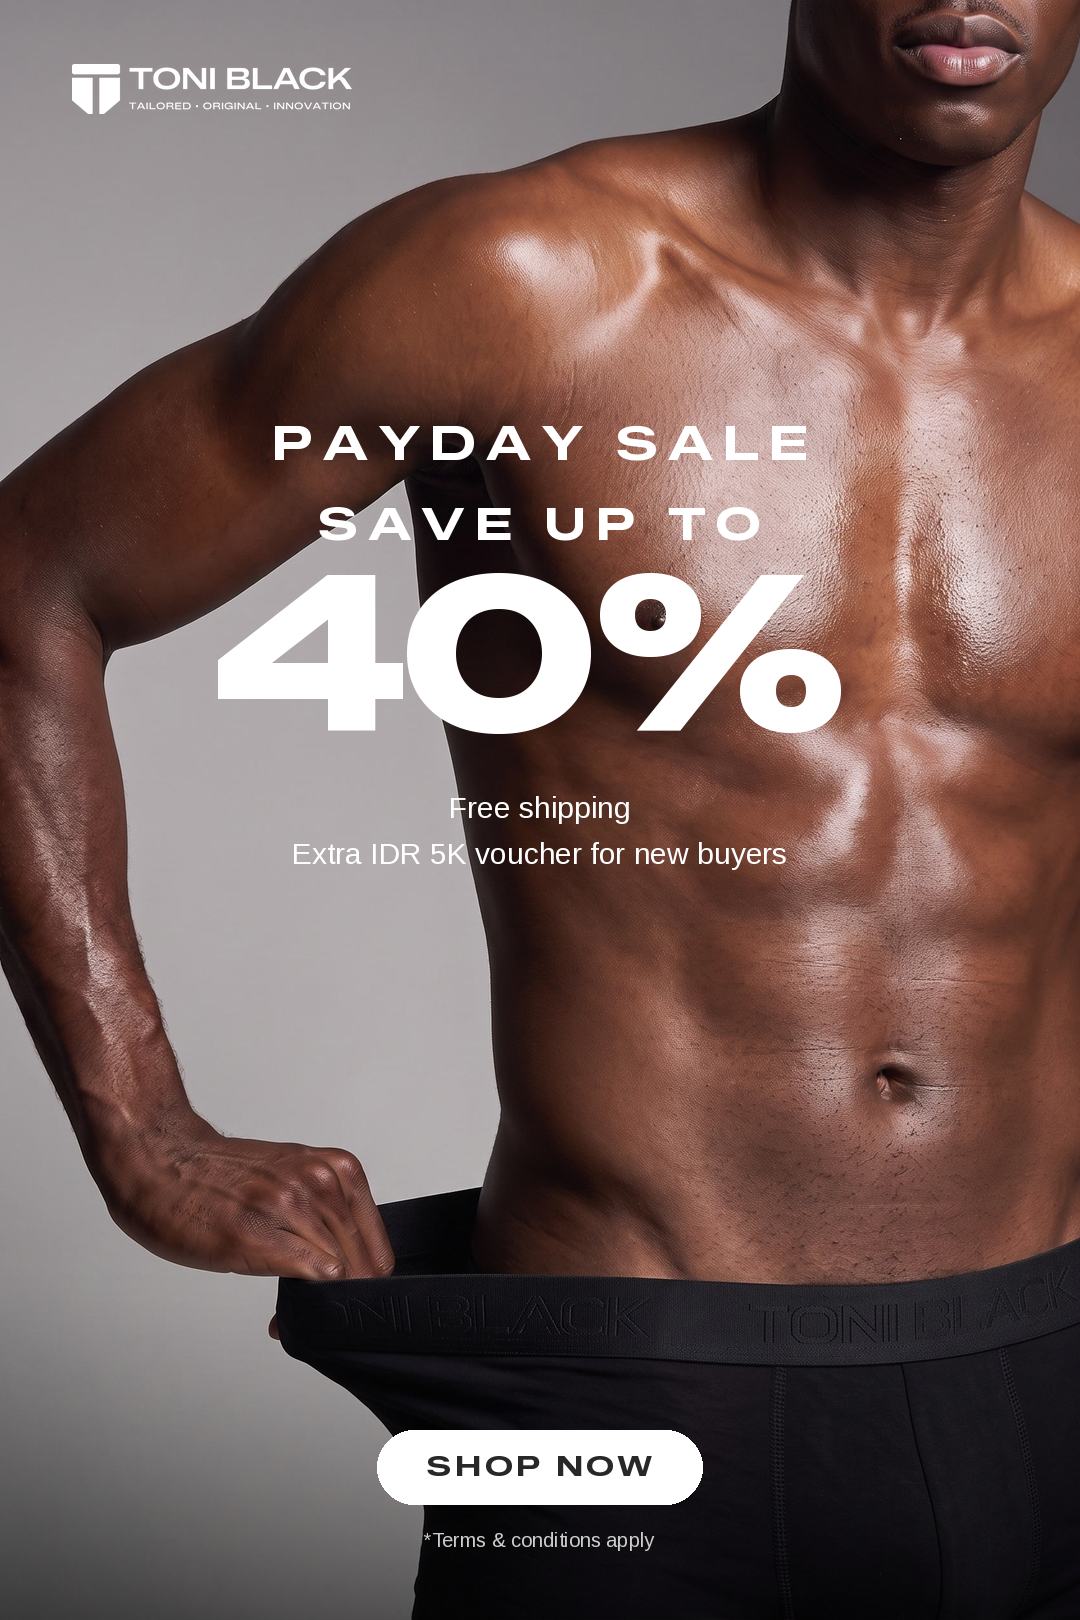
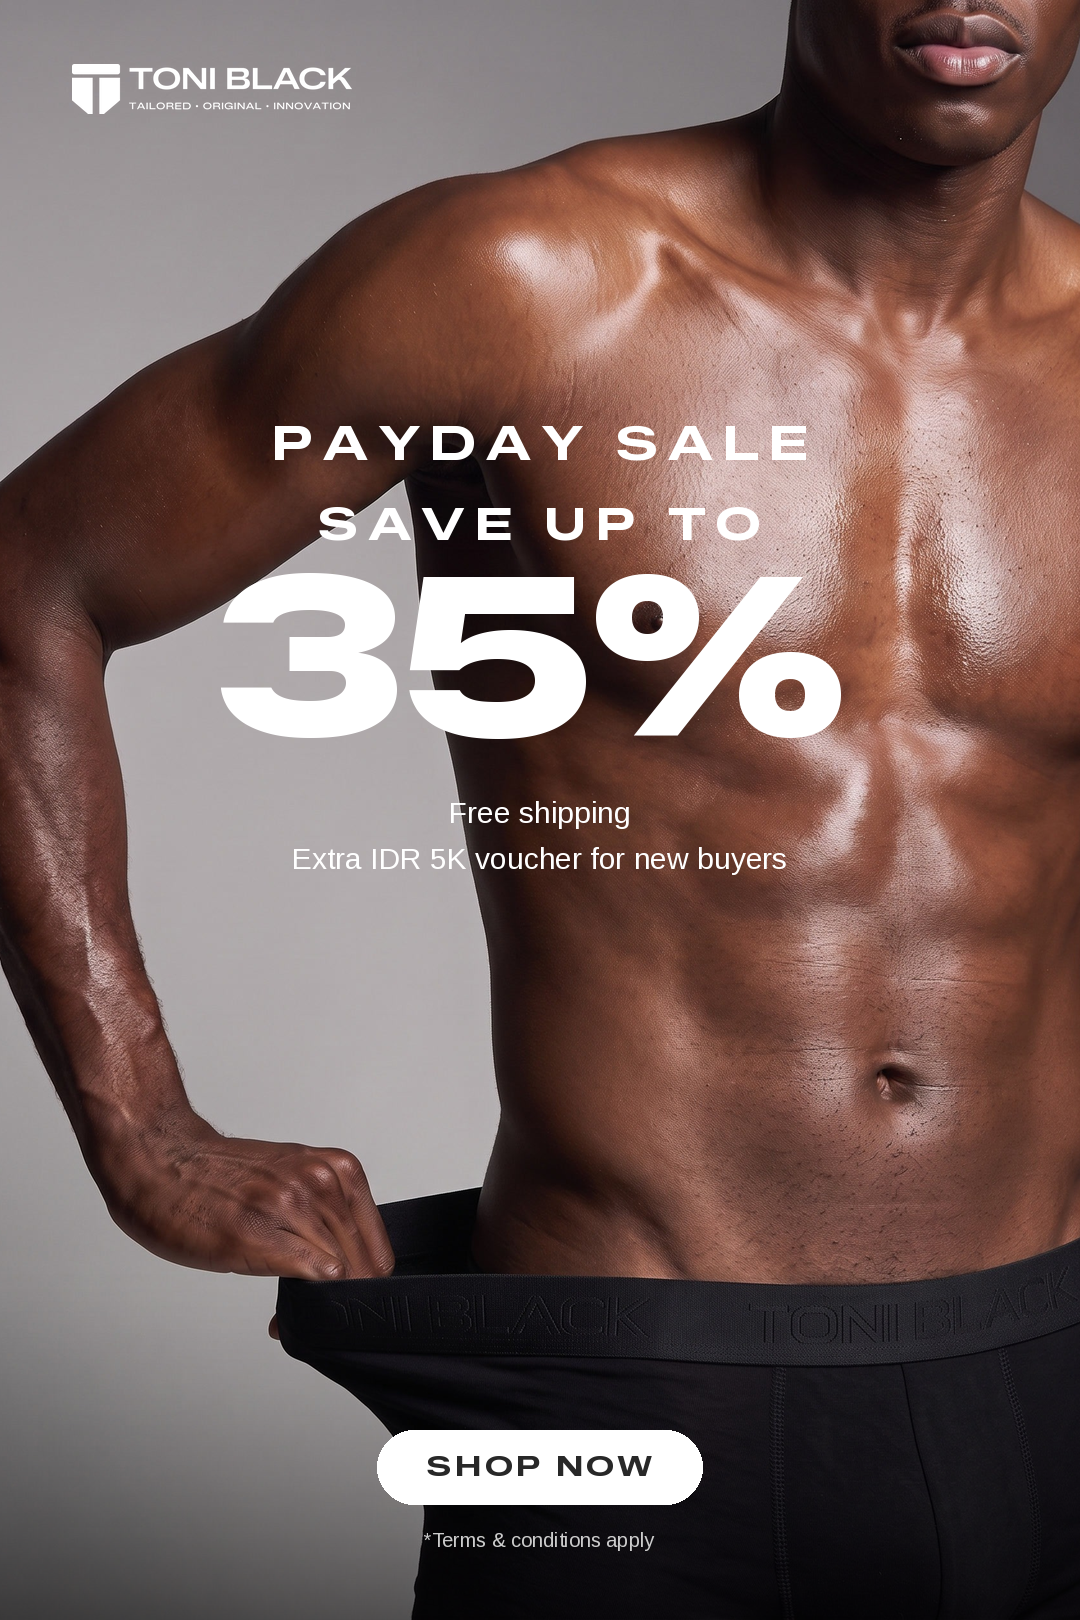
Payday 9.9-layout variant: offer set to 35%
Claude-Session: https://claude.ai/code/session_01D9RBu3wL2qzNxzBzcGFuRs

diff --git a/banner-payday-toni-black/scripts/compose_9.9_layout.py b/banner-payday-toni-black/scripts/compose_9.9_layout.py
@@ -34,11 +34,11 @@ def build(photo_path,out_path,k=1.0,bigw=640,hero_y=0.30):
     # hero lockup, centred on the chest
     f_eye=font("ZalandoSansExpanded-Bold.ttf",48)
     f_save=font("ZalandoSansExpanded-Bold.ttf",46)
-    f_big=fit_font(d,"40%","ZalandoSansExpanded-Black.ttf",g(bigw),track=g(-8))
+    f_big=fit_font(d,"35%","ZalandoSansExpanded-Black.ttf",g(bigw),track=g(-8))
     y=int(H*hero_y)
     w=tracked_w(d,"PAYDAY SALE",f_eye,g(10)); tracked(d,((W-w)//2,y),"PAYDAY SALE",f_eye,WHITE,track=g(10)); y+=g(48+34)
     w=tracked_w(d,"SAVE UP TO",f_save,g(10)); tracked(d,((W-w)//2,y),"SAVE UP TO",f_save,WHITE,track=g(10)); y+=g(48+30)
-    bb=d.textbbox((0,0),"40%",font=f_big); tracked(d,((W-(bb[2]-bb[0]))//2-bb[0],y-bb[1]),"40%",f_big,WHITE,track=g(-8))
+    bb=d.textbbox((0,0),"35%",font=f_big); tracked(d,((W-(bb[2]-bb[0]))//2-bb[0],y-bb[1]),"35%",f_big,WHITE,track=g(-8))
     y+= (bb[3]-bb[1]) + g(56)
     # benefits directly under the hero, still one centred block
     f_ben=font("Arimo-Regular.ttf",30); f_cta=font("ZalandoSansExpanded-Bold.ttf",28); f_tc=font("Arimo-Regular.ttf",20)

diff --git a/banner-payday-toni-black/README.md b/banner-payday-toni-black/README.md
@@ -23,4 +23,4 @@ Three groups, three places, each on its own field; the gaps between groups are m
 2. `scripts/compose.py PHOTO OUT [scale] [hero_y] [bigw]` (final: `1 0.235 500`, `2 0.235 500`). No grade.
 
 ## Variant: 9.9 layout (`variant-9.9-layout/`)
-The 9.9 banner photo and layout with the eyebrow changed from `9.9 SALE` to `PAYDAY SALE` and set as a headline line at the same level as `SAVE UP TO` (both Zalando Bold 48, tracked 10), `40%` the dominant line. Leading opened: 34 px after `PAYDAY SALE`, 30 after `SAVE UP TO`, 56 after `40%` before the benefits, 16 between benefit lines. Offer unchanged at `40%`. `scripts/compose_9.9_layout.py PHOTO OUT [scale] [hero_y]` (final: `1 0.255`, `2 0.255`).
+The 9.9 banner photo and layout with the eyebrow changed from `9.9 SALE` to `PAYDAY SALE` and set as a headline line at the same level as `SAVE UP TO` (both Zalando Bold 48, tracked 10), `35%` the dominant line. Leading opened: 34 px after `PAYDAY SALE`, 30 after `SAVE UP TO`, 56 after `40%` before the benefits, 16 between benefit lines. Offer set to `35%`. `scripts/compose_9.9_layout.py PHOTO OUT [scale] [hero_y]` (final: `1 0.255`, `2 0.255`).
